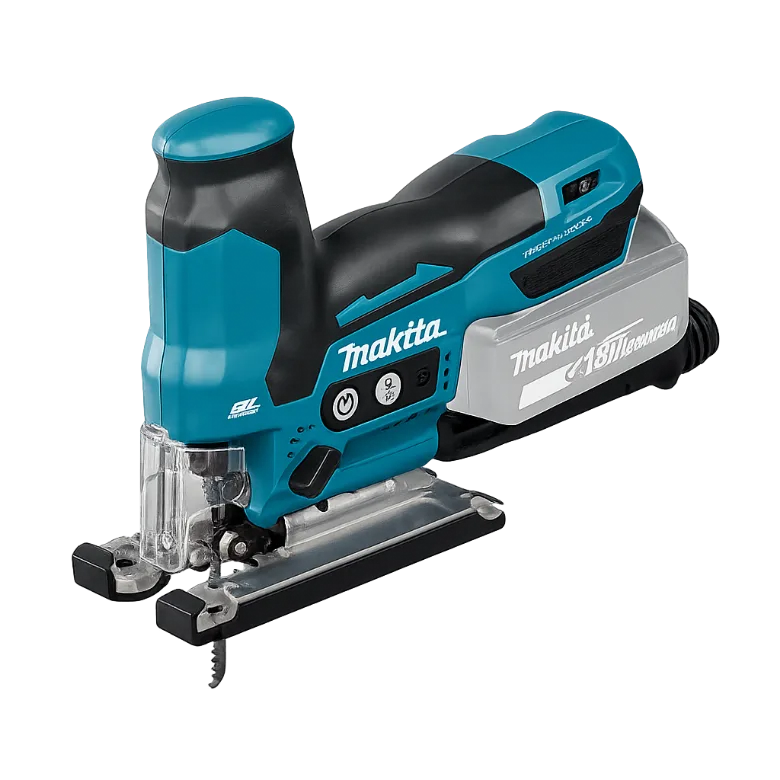
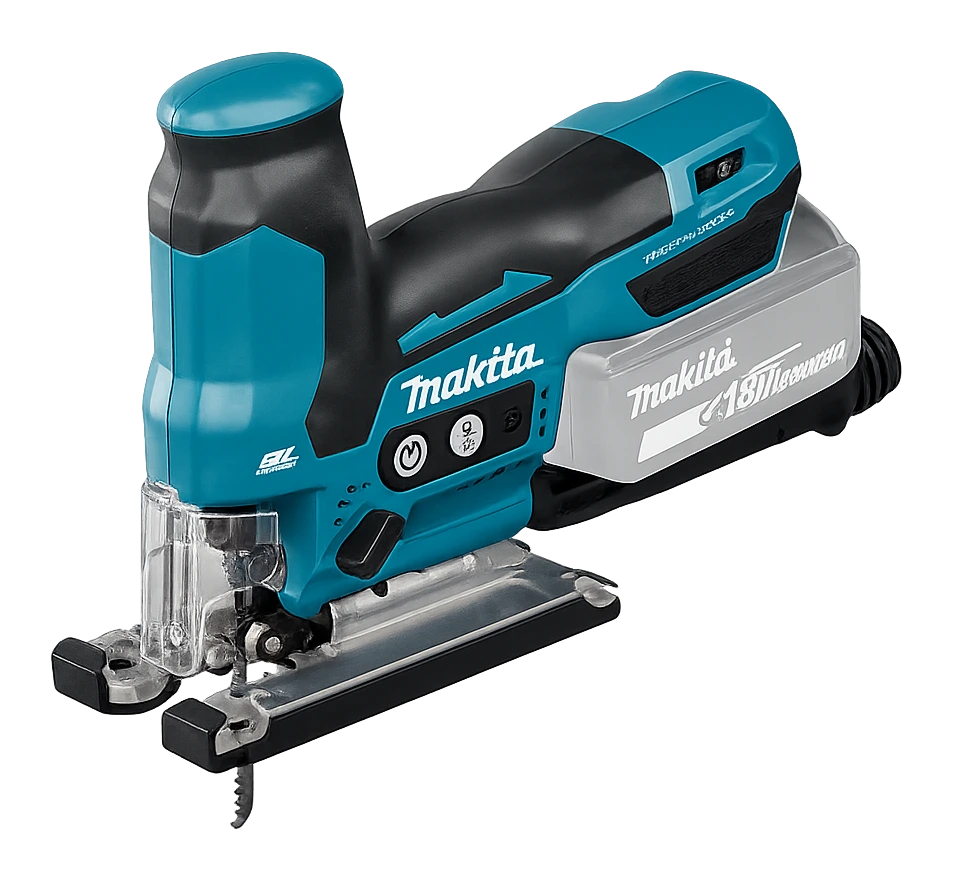
Posters : régénération HAUTE QUALITÉ des 23 posters de la session
Correctif qualité (souffleur pixelisé + downscale 780px/0.82 trop agressif sur
tous). Régénérés depuis les PNG ORIGINAUX : 1400px max côté long, webp 0.92,
transparence préservée (0 fond ajouté). Constat : tous les PNG fournis sont
transparents (le « fond sombre » vu à l'aperçu = backdrop du visualiseur, pas
baked). Vérifié sur #0a0f14 (souffleur/DRT50Z/DTD153ZJ/DPV300Z nets, sans pavé).
23 posters : drt50z, drt50zjx3, drt50zx4, dut130z, dga513zj, dmc300z, dtm52z,
dtp141z, dpv300z, dpv300zj, drv250zj, dhs680zj, djr189z, djr189zj, djv185z,
djv185zj, dls600z, dsp601zju, dub363zv, dtd153z, dtd153zj, dtd154z, dtd154zj.
Règle qualité gravée dans le doc. Aucun bump SW (posters uniquement).

Changed region(s): [[0.0308, 0.0615, 0.9538, 0.9538]]

diff --git a/pirates-tools/docs/MAKITA-POSTERS-TODO.md b/pirates-tools/docs/MAKITA-POSTERS-TODO.md
@@ -5,10 +5,13 @@
 >
 > ⛔ RÈGLE POSTER GRAVÉE (erreur commise le 26/07, ne PLUS refaire) : les PNG
 > envoyés par l'user sont TRANSPARENTS (pas de fond). On PRÉSERVE l'alpha
-> (trim marges + resize 780, AUCUN fond ajouté) → l'outil se pose sur le noir
-> du hero fiche (#0a0f14). NE JAMAIS compositer sur un dégradé gris (ça fait un
-> pavé clair visible). Détourage seulement si le fichier a un vrai fond opaque
-> (blanc/brun) → alors détourer VERS transparent, pas vers un fond gris.
+> (trim marges + AUCUN fond ajouté) → l'outil se pose sur le noir du hero fiche
+> (#0a0f14). NE JAMAIS compositer sur un dégradé gris (ça fait un pavé clair
+> visible). Détourage seulement si le fichier a un vrai fond opaque (blanc/brun)
+> → alors détourer VERS transparent, pas vers un fond gris.
+> QUALITÉ : régénérer à 1400px max (côté long), webp qualité 0.92. JAMAIS
+> 780px/0.82 (pixelisé — erreur 26/07 sur le souffleur). Pipeline de référence :
+> scratchpad/regen-hq.mjs (trim si transparent, resize 1400, webp 0.92, 0 fond).
 
 1. [~] (poster OK, specs/prix en attente) DVC560Z — Aspirateur 36V BL (2x18 V) Li-Ion 120 mbar (Produit seul)
 2. [x] DTW1001Z — Boulonneuse à chocs 18V LXT 3/4" 1050 Nm brushless (machine seule)
